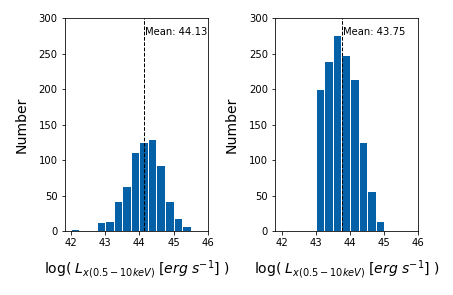
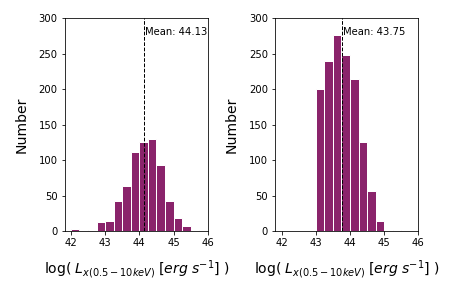
add more histograms, save plots w/o legends

Changed region(s): [[0.6799, 0.122, 0.8653, 0.7932], [0.2163, 0.4576, 0.4327, 0.7932]]

diff --git a/Code/plotting.py b/Code/plotting.py
@@ -8,6 +8,7 @@ import csv
 c_ir        = '#D00000' # use this for IR sources                   ALT: '#CE2727' # Fire Engine Red 
 c_xray      = '#0461A7' # use this for Xray sources                 ALT: '#384E77' # Y In Mn Blue    
 c_ir_xray   = '#D1F520' # use this for matched IR and Xray sources  ALT: '#F6CD13' # Jonquil         
+c_xray_pur  = '#8a236b' # use this for plots relating to X-ray colorbar
 
 # read from a given csv file and return a list of its contents 
 def ReadFile(filename, crop=True) : 
@@ -113,7 +114,7 @@ def PlotDonleyTricolor(
         x_ir, y_ir,             # infrared (red)
         x_ix, y_ix,             # overlap (yellow)
         path='', fileName='',   # save
-        saveAll=False,           # save 3 versions of plot 
+        saveNum=2,              # 3=full,zoom,zoom w/legend. 2= zoom,zoom w/legend. 1=zoom w/legend. 0=none
         printInfo=True          # output text
     ) :
 
@@ -128,19 +129,19 @@ def PlotDonleyTricolor(
 
     # save
     if(path and fileName) :
-        
-        if(saveAll) : 
+        if(saveNum>=3) : 
             plt.axis([-1.5,2.5,-1.5,2.5]) 
             save(path+'\\'+fileName+'_FULL.png')
+        if(saveNum>=2) : 
             plt.axis([-0.7,1.0,-0.7,1.0]) 
-            save(path+'\\'+fileName+'_ZOOM.png')    
+            save(path+'\\'+fileName+'_ZOOM.png')
+        if(saveNum>=1) :
+            plt.axis([-0.7,1.0,-0.7,1.0]) 
             plt.legend(markerscale=3)
             save(path+'\\'+fileName+'_ZOOM_legend.png')
-        else : 
+        if(saveNum<1) :
             plt.axis([-0.7,1.0,-0.7,1.0]) 
-            plt.legend(markerscale=3) 
-            save(path+'\\'+fileName+'_ZOOM_legend.png')
-
+            plt.legend(markerscale=3)
     else :
         plt.axis([-0.7,1.0,-0.7,1.0]) 
         plt.legend(markerscale=3) 
@@ -213,3 +214,63 @@ def PlotDonleyXray(
     
     # done    
     return
+
+# Plots one X-ray luminosty (log scale) histogram 
+def PlotHistOne(x,saveStr=''):
+    # Plot histogram.
+    plt.hist(x, 25, edgecolor='w', color=c_xray_pur)
+    # mean
+    mean = np.array(x).mean()
+    min_ylim, max_ylim = plt.ylim()
+    plt.axvline(mean, color='k', linestyle='dashed')
+    plt.text(mean*1.001, max_ylim*0.94, 'Mean: {:.2f}'.format(mean))
+    # set axis lables
+    plt.xlabel('$\log( \; L_{x(0.5-10keV)} \; [erg \; s^{-1}] \;)$')
+    plt.ylabel('Number')
+    # save
+    if(saveStr) :
+        save(saveStr)
+    # display
+    plt.show()
+
+# Plots two X-ray luminosty (log scale) histograms
+def PlotHistTwo(x1,x2,h=300,saveStr='') : 
+    # subplots 
+    fig, (x1hist, x2hist) = plt.subplots(1,2)
+    ## inWedge subplot
+    # plot all redshift histogram
+    x1hist.hist(x1, bins=np.arange(42,46,0.25), edgecolor='w', color=c_xray_pur)
+    x1hist.set_ylim(ymin=0, ymax=h)
+    # axis and titles 
+    x1hist.set_xlabel('$\log( \; L_{x(0.5-10keV)} \; [erg \; s^{-1}] \;)$')
+    x1hist.set_ylabel('Number')
+    x1hist.set_xticks([42,43,44,45,46])
+    # mean 
+    mean_all = x1.mean()
+    min_ylim_all, max_ylim_all = x1hist.get_ylim()
+    x1hist.axvline(mean_all, color='k',linestyle='dashed')
+    x1hist.text(mean_all*1.001, max_ylim_all*0.92, 'Mean: {:.2f}'.format(mean_all))
+    ## outWedge subplot
+    # plot agn redshift histogram
+    x2hist.hist(x2, bins=np.arange(42,46,0.25), edgecolor='w', color=c_xray_pur)
+    # axis and titles 
+    x2hist.set_xlabel('$\log( \; L_{x(0.5-10keV)} \; [erg \; s^{-1}] \;)$')
+    x2hist.set_ylabel('Number')
+    x2hist.set_ylim(ymin=0, ymax=h)
+    x2hist.set_xticks([42,43,44,45,46])
+    # mean 
+    mean_agn = x2.mean()
+    min_ylim_agn, max_ylim_agn = x2hist.get_ylim()
+    x2hist.axvline(mean_agn, color='k',linestyle='dashed')
+    x2hist.text(mean_agn*1.001, max_ylim_agn*0.92, 'Mean: {:.2f}'.format(mean_agn))
+    ## end subplots 
+    # formatting and save  
+    plt.tight_layout()
+    # save
+    if(saveStr) :
+        save(saveStr)
+    # print info 
+    print('Number of x1:\t', len(x1))
+    print('Number of x2:\t', len(x2))
+    print('Range x1:\t',  min(x1), '-', max(x1))
+    print('Range x2:\t',  min(x2), '-', max(x2))
